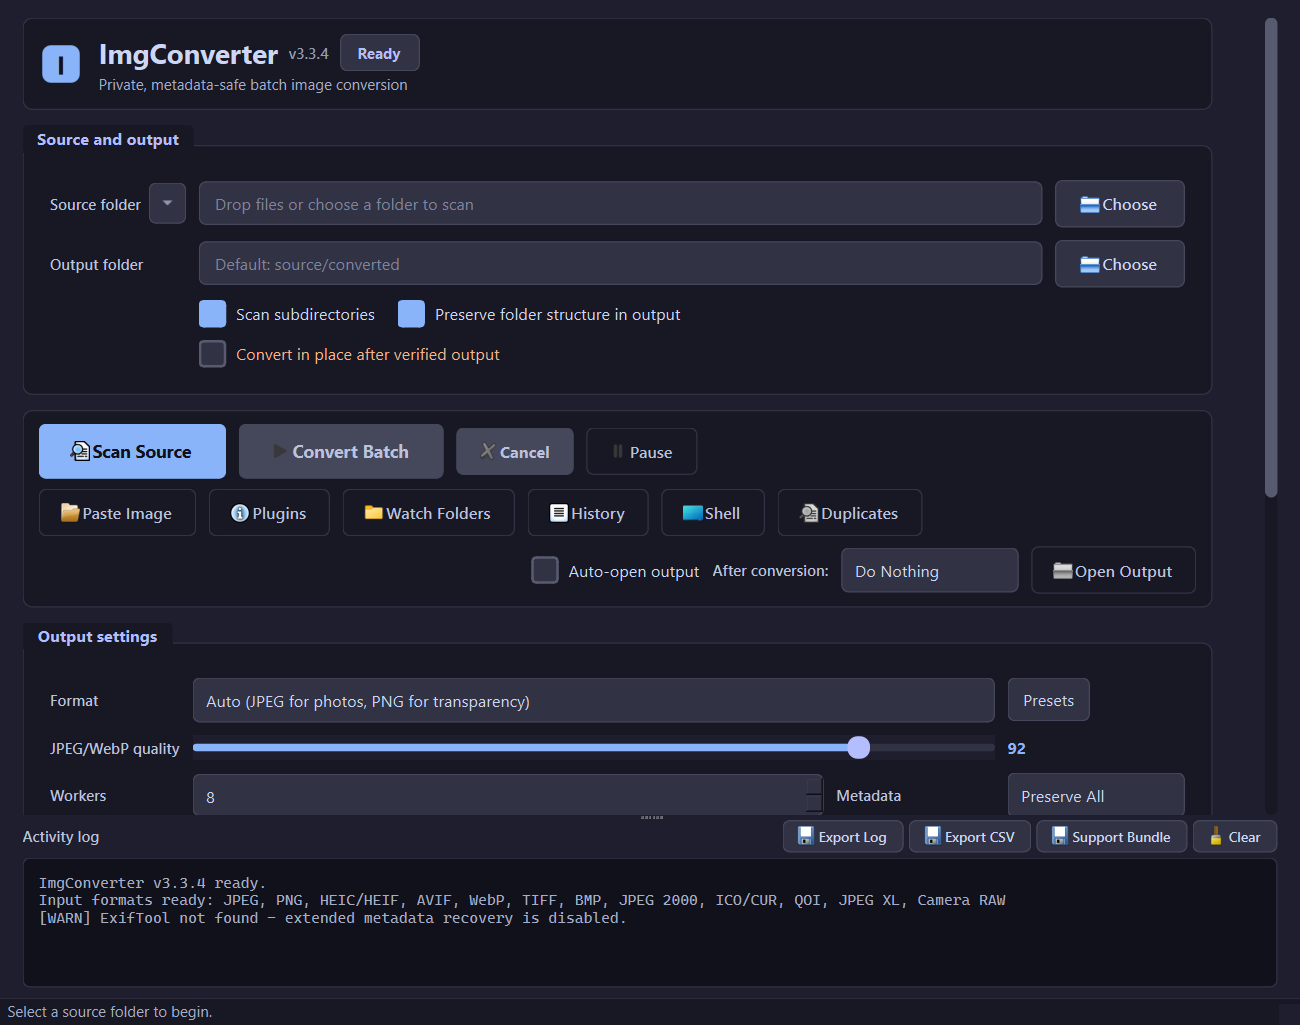
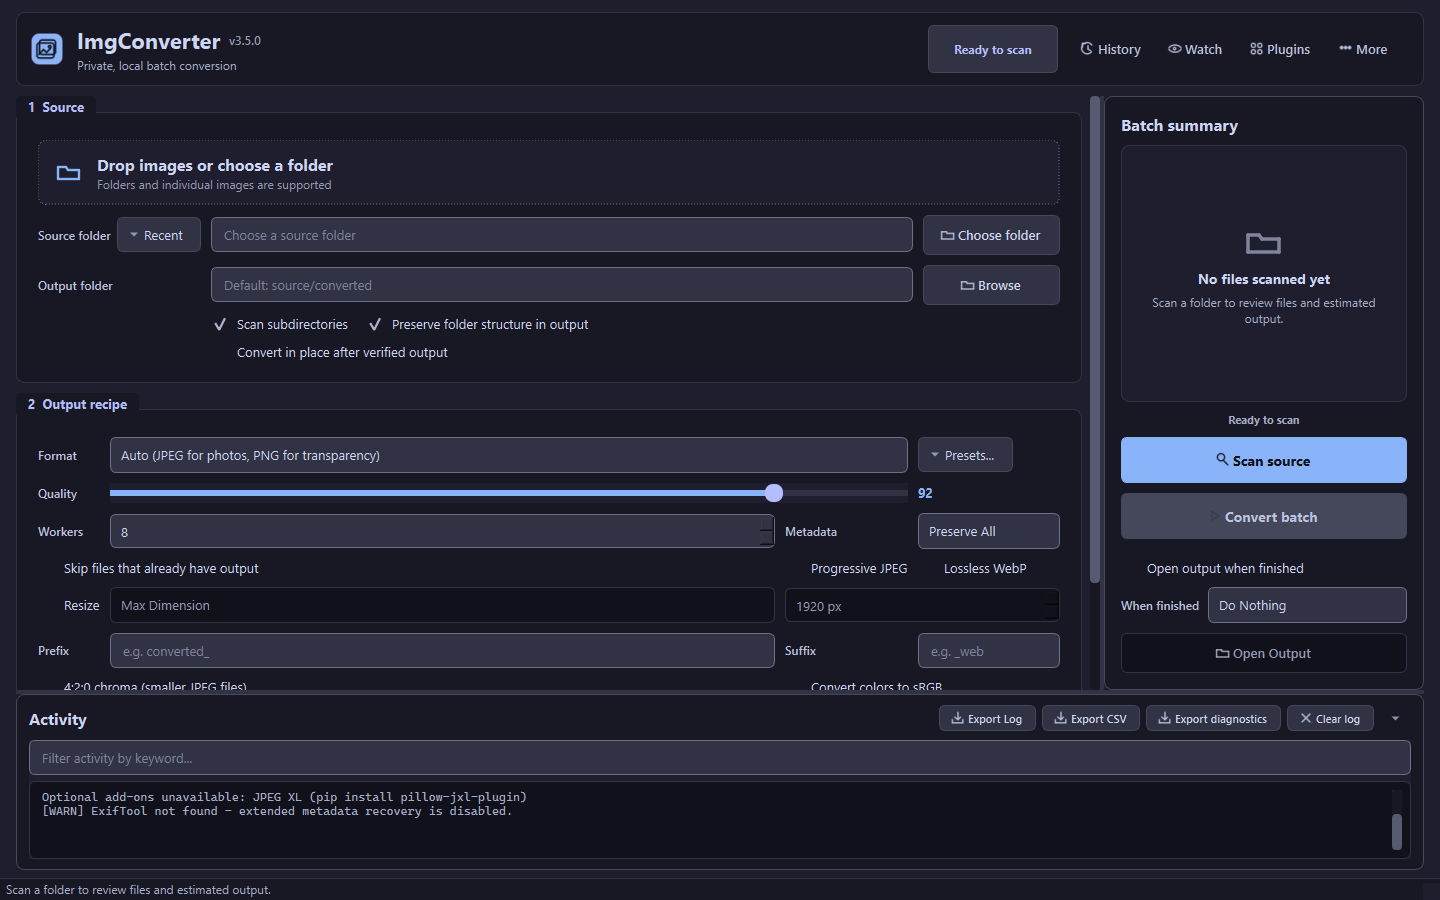
chore: ship v3.5.0 premium workspace

diff --git a/imgconverter.py b/imgconverter.py
@@ -1,6 +1,6 @@
 #!/usr/bin/env python3
 """
-ImgConverter v3.4.3 - Universal image batch converter
+ImgConverter v3.5.0 - Universal image batch converter
 Scans directories recursively and converts JPEG, PNG, HEIC, AVIF, WebP,
 JPEG XL, RAW, TIFF, BMP, JPEG 2000, QOI, and ICO files to JPEG, PNG,
 WebP, AVIF, TIFF, or JPEG XL. Auto-detects optimal format: PNG for
@@ -31,7 +31,7 @@ def _branding_icon_path() -> Path:
     return Path("icon.png")
 
 
-APP_VERSION = "3.4.3"
+APP_VERSION = "3.5.0"
 
 # Structured exit-code matrix — documented in README + man-page-style.
 # CI / cron / Ansible scripts can branch on these without parsing log output.
@@ -4461,19 +4461,33 @@ def _open_path(path: str):
         subprocess.Popen(["xdg-open", path])
 
 
-def _create_app_icon() -> QIcon:
-    """Create a simple app icon programmatically."""
-    pm = QPixmap(64, 64)
+def _create_app_icon(pixel_size: int = 64) -> QIcon:
+    """Create the ImgConverter stacked-image mark at any packaging size."""
+    pixel_size = max(16, int(pixel_size))
+    scale = pixel_size / 64.0
+    q = lambda value: int(round(value * scale))
+    pm = QPixmap(pixel_size, pixel_size)
     pm.fill(QColor(0, 0, 0, 0))
     p = QPainter(pm)
     p.setRenderHint(QPainter.RenderHint.Antialiasing)
     p.setBrush(QColor(CAT["blue"]))
-    p.setPen(Qt.PenStyle.NoPen)
-    p.drawRoundedRect(2, 2, 60, 60, 14, 14)
-    p.setPen(QColor(CAT["crust"]))
-    f = QFont("Segoe UI", 30, QFont.Weight.Bold)
-    p.setFont(f)
-    p.drawText(pm.rect(), Qt.AlignmentFlag.AlignCenter, "I")
+    outer_pen = QPen(QColor(CAT["lavender"]))
+    outer_pen.setWidthF(max(1.0, 1.5 * scale))
+    p.setPen(outer_pen)
+    p.drawRoundedRect(q(2), q(2), q(60), q(60), q(14), q(14))
+
+    mark_pen = QPen(QColor(CAT["crust"]))
+    mark_pen.setWidthF(max(1.8, 3.2 * scale))
+    mark_pen.setCapStyle(Qt.PenCapStyle.RoundCap)
+    mark_pen.setJoinStyle(Qt.PenJoinStyle.RoundJoin)
+    p.setPen(mark_pen)
+    p.setBrush(Qt.BrushStyle.NoBrush)
+    p.drawRoundedRect(q(17), q(14), q(32), q(29), q(5), q(5))
+    p.drawRoundedRect(q(12), q(20), q(34), q(30), q(5), q(5))
+    p.drawEllipse(q(35), q(25), q(5), q(5))
+    p.drawLine(q(16), q(43), q(25), q(33))
+    p.drawLine(q(25), q(33), q(31), q(39))
+    p.drawLine(q(31), q(39), q(39), q(31))
     p.end()
     return QIcon(pm)
 

diff --git a/tests/test_features.py b/tests/test_features.py
@@ -590,6 +590,15 @@ class TestPyInstallerGuards:
 
         assert freeze_idx < deps_idx < pillow_idx
 
+    def test_runtime_hook_guards_frozen_workers(self):
+        root = Path(__file__).resolve().parents[1]
+        hook = root / "packaging" / "runtime_hook_mp.py"
+        assert hook.exists()
+        assert "multiprocessing.freeze_support()" in hook.read_text(encoding="utf-8")
+
+        spec = (root / "ImgConverter.spec").read_text(encoding="utf-8")
+        assert "runtime_hooks=['packaging/runtime_hook_mp.py']" in spec
+
     def test_install_deps_refuses_frozen_executable(self, monkeypatch, capsys):
         import imgconverter
 

diff --git a/packaging/runtime_hook_mp.py b/packaging/runtime_hook_mp.py
@@ -1,0 +1,5 @@
+"""Protect frozen Windows launches before application imports run."""
+
+import multiprocessing
+
+multiprocessing.freeze_support()

diff --git a/CHANGELOG.md b/CHANGELOG.md
@@ -4,10 +4,35 @@ All notable changes to ImgConverter will be documented in this file.
 
 ## [Unreleased]
 
+## [v3.5.0] — 2026-07-09
+
 ### Changed
 
+- **Reimagined batch workspace**: Reframed the main window around a clear Source → Output recipe → Batch summary workflow with a persistent action dock and supporting Activity panel.
+- **Premium source experience**: Added a high-visibility drop surface, clearer local-first reassurance, recent-source access, aligned output routing, and progressive disclosure for input filters and advanced controls.
+- **Contextual batch summary**: Replaced six always-visible zero cards with an intentional empty state, scan/readiness feedback, responsive statistics, dynamic “Convert N images” copy, semantic progress, and output actions.
+- **Responsive composition**: Wide windows use the two-column workspace; compact windows stack the source/recipe and action surfaces while collapsing secondary controls to preserve reachability.
+- **Unified icon and app identity**: Replaced platform-dependent action glyphs and legacy HEICShift package artwork with a consistent line-icon system and ImgConverter stacked-image mark.
+- **Dialog hierarchy**: Standardized headers, inline status tones, empty states, human-readable labels, disabled-action explanations, and coherent actions across plugin trust, history, watch profiles, duplicate review, commands, and file-manager integration.
+- **Activity hierarchy**: Moved diagnostics below the primary workflow, made the panel collapsible, clarified export labels, and retained searchable local details without competing with Scan and Convert.
 - **Shared interaction system**: Strengthened focus rings, hover/pressed/disabled states, table selection, combo menus, sliders, splitters, validation fields, and progress tones across the main window and every dialog.
 - **Consistent geometry**: Normalized every stylesheet corner radius to the 0/4/6/8/10/12px product scale and added a regression test that rejects drift back to pill or off-scale shapes.
+
+### Fixed
+
+- **Default and compact layout clipping**: Removed the unreachable fixed-width action rows and added an explicit responsive breakpoint with horizontal-scroll fallback for expanded expert controls.
+- **Scan consistency**: Source, recipe, filter, and automation controls now lock during scanning so visible settings cannot drift away from the active scan result.
+- **Stale scan invalidation**: Editing the source clears the old review and disables conversion until the new source is scanned.
+- **Dependent-control restoration**: Resize and only-if-smaller inputs remain disabled after a busy cycle when their parent options are unchecked.
+- **Truthful completion state**: Cancelled batches now report Stopped, partial failures report Partial failure, and Open Output is enabled only when the current batch produced output.
+- **Truthful progress copy**: Completed-file feedback no longer claims a file is currently processing after its future has already finished.
+- **Checkbox accessibility**: Restored native checked glyphs so checkbox state is never communicated by color alone.
+- **Validation accessibility**: Source/output/size errors now use semantic validation properties with screen-reader descriptions and clear consistently on edit.
+- **Command discoverability**: Added a visible More entry point and normal Close/Open controls while removing hidden application shortcuts.
+
+### Added
+
+- **Five GUI regression tests**: Responsive reflow, dependent-state restoration, semantic summary mirroring, shortcut absence, and native checkbox rendering. 191 total tests.
 
 ## [v3.4.3] — 2026-07-01
 

diff --git a/README.md b/README.md
@@ -2,7 +2,7 @@
 
 Universal image batch converter with a modern, local-first GUI. Scans directories recursively and converts JPEG, PNG, HEIC, AVIF, WebP, JPEG XL, Camera RAW, TIFF, BMP, JPEG 2000, QOI, and ICO files to JPEG, PNG, WebP, AVIF, TIFF, or JPEG XL with full metadata preservation.
 
-![Version](https://img.shields.io/badge/Version-3.4.3-blue)
+![Version](https://img.shields.io/badge/Version-3.5.0-blue)
 ![Python 3.10+](https://img.shields.io/badge/Python-3.10+-3776AB?logo=python&logoColor=white)
 ![License](https://img.shields.io/badge/License-MIT-green)
 ![Platform](https://img.shields.io/badge/Platform-Windows%20%7C%20macOS%20%7C%20Linux-blue)
@@ -76,9 +76,12 @@ Run `imgconverter --install-deps` to install all required + optional Python pack
 - **File count in title bar** — shows file count after scan, progress during conversion, summary when done
 - **Resize upscaling guard** — warns when image is already smaller than the resize target
 - **Conversion presets** — Web Optimized, Archive Quality, Mobile Friendly, Print/TIFF one-click presets
-- **Premium workflow UI** — compact source/output setup, tone-aware workflow status, refined action bar, collapsible input filters, and calmer first-run log state
-- **Polished management dialogs** — plugin trust and watch-folder profiles use clearer empty states, action roles, and keyboard-friendly table behavior
-- **True collapsed advanced controls** — advanced output controls stay out of the main flow until expanded
+- **Premium workflow workspace** — a clear Source → Output recipe → Batch summary layout keeps the next action visible and the activity log supporting, not dominant
+- **Responsive composition** — two-pane layout on wide screens, stacked source/summary flow on compact windows, and reachable expert controls from 760×560 through 4K+
+- **Contextual batch summary** — purposeful empty, scanning, ready, converting, stopped, partial-failure, failed, and complete states with dynamic “Convert N images” copy
+- **Unified line-icon system** — consistent theme-aware actions and an ImgConverter-specific app/package mark replace platform-dependent glyphs and legacy branding
+- **Polished management dialogs** — plugin trust, batch history, automation, duplicate review, commands, and file-manager integration share clear hierarchy, status feedback, and actionable empty states
+- **True collapsed advanced controls** — input-family filters and advanced output controls stay out of the primary Source → Recipe path until expanded
 - **Smart option visibility** — format-specific controls auto-show/hide based on output format
 - **Dark title bar** — native dark title bar on Windows 10/11 matching Catppuccin theme
 - **Conversion speed stats** — elapsed time + files/sec displayed in status bar during conversion
@@ -110,7 +113,7 @@ Run `imgconverter --install-deps` to install all required + optional Python pack
 - **Cancel support** — stop mid-conversion without corrupting output
 - **Settings persistence** — remembers all settings including format filter state across sessions
 - **Catppuccin Mocha dark theme** — including dark scrollbars and dark title bar
-- **Responsive UI scaling** — QScrollArea for controls, QSplitter between controls and log, works from 720p to 4K+
+- **Accessible interaction states** — visible focus, hover, pressed, selected, checked, disabled, validation, progress, and semantic status treatments across the full GUI
 - **Cross-platform** — native file manager integration on Windows, macOS, and Linux
 
 ## Installation
@@ -128,17 +131,17 @@ GitHub release binaries are unsigned until platform signing infrastructure is av
 
 ## Usage
 
-1. **Choose** or **drag & drop** a directory containing image files
-2. **Adjust output settings** — format, quality, workers, metadata, resize, and naming
-3. **Scan Source** to discover supported files
-4. Optionally expand **Input format filters** or **Advanced output controls**
-5. **Convert Batch** — output goes to `source/converted/` by default
+1. In **Source**, choose or drag in a folder (or individual images) and confirm the output folder
+2. In **Output recipe**, choose the format, quality, metadata policy, and optional preset
+3. Select **Scan source** to review matching files and estimated output details
+4. Select the contextual **Convert N images** action in **Batch summary**
+5. Expand **Advanced options** or **Input format filters** only when the workflow needs them; output defaults to `source/converted/`
 
 Toggle **"Convert in place after verified output"** to save output next to each source file and delete the original after validation succeeds.
 
 Enable **"Skip files that already have output"** to resume interrupted batches without re-converting.
 
-The log panel shows per-file results with size before/after and conversion time. Logs can be exported to a text file, CSV report, or redacted support bundle. Completed batches are also recorded in the local Batch History dialog without source images or full private paths. CSV and JSON reports include metadata/provenance presence checks for EXIF, ICC, XMP, IPTC, MakerNotes, and C2PA; warnings call out fields that were detected before conversion but missing afterward. Support bundles include app/platform/dependency/tool diagnostics and recent redacted logs, but never include source images.
+The collapsible Activity panel shows per-file results with size before/after and conversion time. Activity can be exported to text, CSV, or a redacted diagnostics bundle. Completed batches are also recorded in Batch History without source images or full private paths. CSV and JSON reports include metadata/provenance presence checks for EXIF, ICC, XMP, IPTC, MakerNotes, and C2PA; warnings call out fields that were detected before conversion but missing afterward. Diagnostics bundles include app/platform/dependency/tool details and recent redacted activity, but never include source images.
 
 ## CLI Usage
 

diff --git a/ROADMAP.md b/ROADMAP.md
@@ -1,6 +1,6 @@
 # ImgConverter Roadmap
 
-**Current version:** v3.4.0 (released 2026-07-01) · **Roadmap revision:** 2026-07-01
+**Current version:** v3.5.0 (released 2026-07-09) · **Roadmap revision:** 2026-07-09
 
 ## Working Rules
 